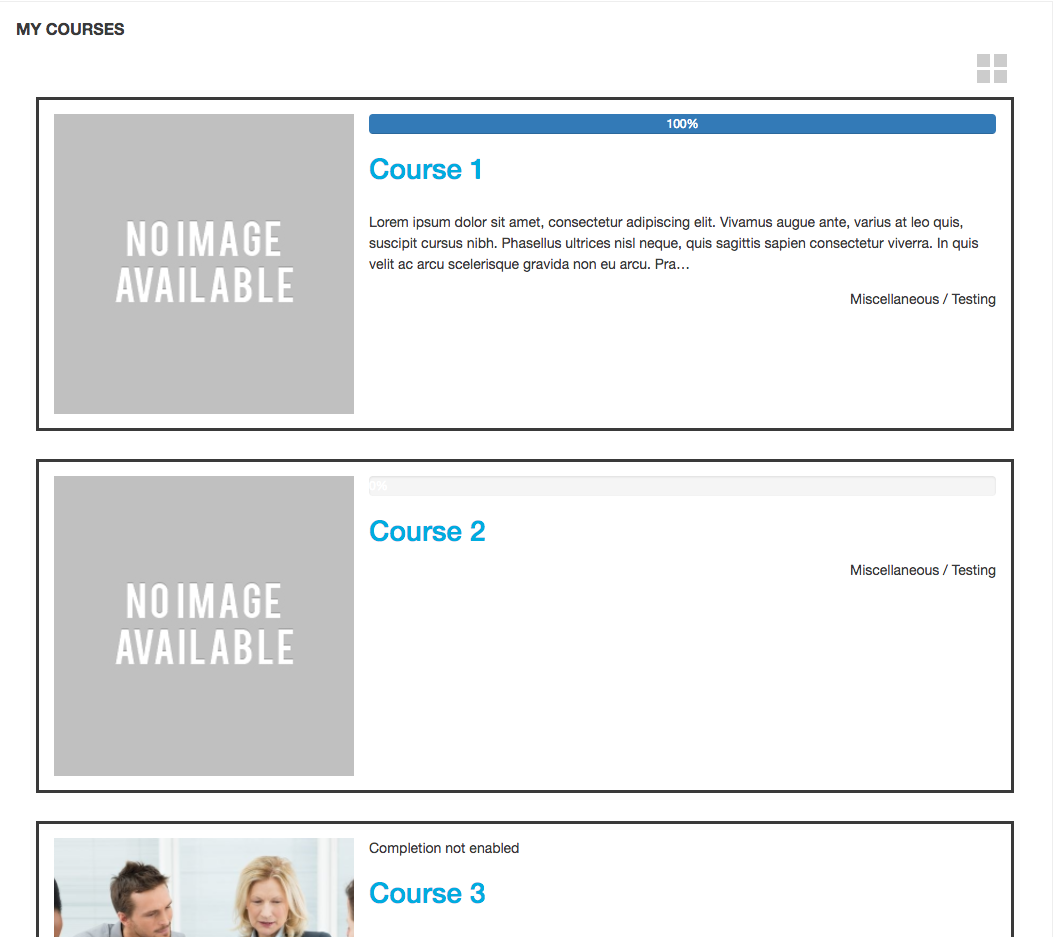
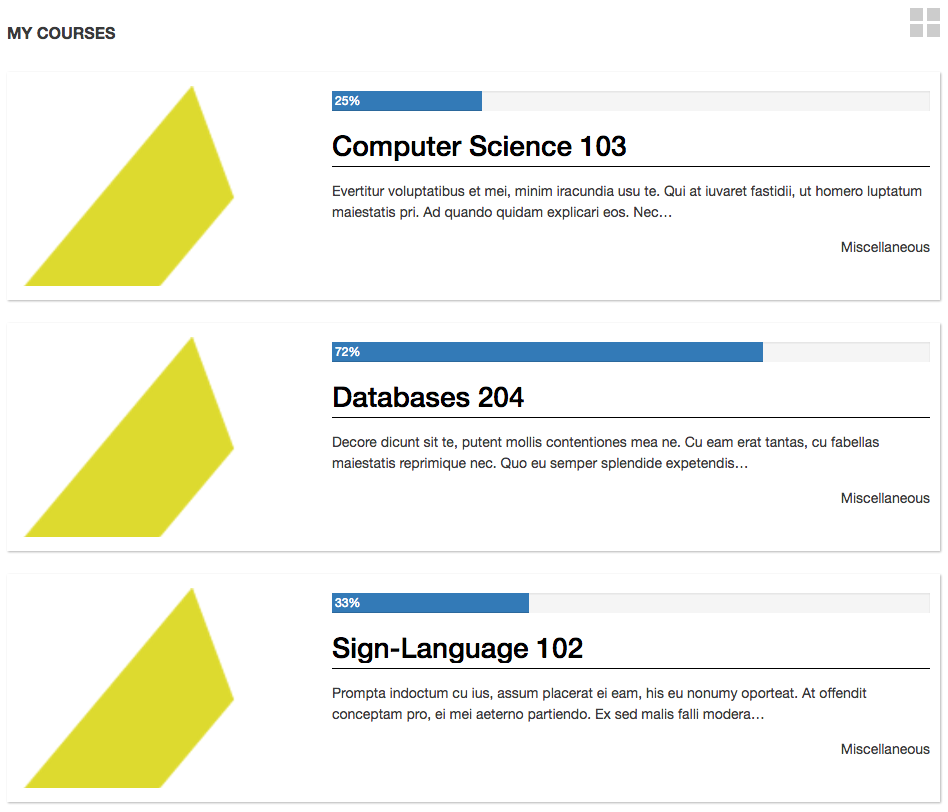
Address Issue #3, #4 - UI/UX Improved (#6)
* Address Issue #4 - UI/UX Improved

* Keeping Code Climate Happy

* Transparent Pic, Styling, Lang & #3 Fix

* Lang Strings Standardised, UI/UI Fix, Version Bump, Updated Pics

* Fix for MDL-58010

diff --git a/styles.css b/styles.css
@@ -17,6 +17,17 @@
     border: solid;
     padding: 15px;
 }
+/*Progress text to be rendered on top of background image*/
+.block_my_courses .my_courses_list .coursebox > p {
+    position: relative;
+}
+.block_my_courses .my_courses_list .coursebox.p-y-1 > p {
+    margin-top: -1rem;
+}
+/*Only if JS is enabled.*/
+.jsenabled .block_my_courses .my_courses_list .coursebox.list {
+    cursor: pointer;
+}
 .block_my_courses .my_courses_list .coursebox.list {
     margin-left: 0;
 }
@@ -146,6 +157,9 @@
     display: flex;
     flex-direction: column;
     overflow: auto;
+}
+.block_my_courses .coursebox.grid .activity_info {
+    display: none;
 }
 .block_my_courses .coursebox.list {
     display: block;
@@ -479,7 +493,6 @@
     z-index: 999;
     background:#ccc;
     background: rgba(0, 0, 0, 0.2);
-    transition: all 0.5s ease;
 }
 .my_courses_list .coursebox:not(.span12) .progress .progress-bar[aria-valuenow="0"] {
     display: none;

diff --git a/lang/en/block_my_courses.php b/lang/en/block_my_courses.php
@@ -81,22 +81,23 @@ $string['customsettings'] = 'Custom settings';
 $string['customsettings_desc'] = 'The following are settings for additions to the course overview block';
 
 $string['courseimagedefault'] = 'Default course image';
-$string['courseimagedefaultdesc'] = 'This image will be shown if a course lacks a course summary image file.';
+$string['courseimagedefault_desc'] = 'This image will be shown if a course lacks a course summary image file.';
 
 $string['my_courses_bgimage']   = "Embed images into background";
-$string['my_courses_bgimagedesc']   = "This will embed images into background as a CSS property";
+$string['my_courses_bgimage_desc']   = "This will embed images into background as a CSS property";
 
+$string['summary_limit'] = 'Summary character limit';
 $string['summary_limit_desc'] = 'Limit the output of text to display as course summaries on the users home page';
-$string['summary_limit'] = 'Summary String Letter Limit';
 
-$string['progress'] = 'Progress Type';
+$string['progress'] = 'Progress type';
 $string['progress_desc'] = 'This will determine what type of course grades the block will try to render';
 
-$string['progressenabled'] = 'Coure progress bar';
+$string['progressenabled'] = 'Course progress bar';
 $string['progressenabled_desc'] = 'This will determine if the course progress bar will be shown to learners';
 
 $string['startgrid'] = "Start as grid";
 $string['startgrid_desc'] = "This will render the courses in a grid straight away";
 
-$string['noprogress'] = "Progressbar enabled, but completion tracking not enabled for course!";
+$string['noprogress'] = ": enable course completion tracking!";
+$string['progressunavail'] = "Progress unavailable";
 $string['nocompletion'] = "Completion not enabled";

diff --git a/locallib.php b/locallib.php
@@ -97,7 +97,7 @@ function block_my_courses_get_myorder() {
     // If preference was not found, look in the old location and convert if found.
     $order = array();
     if ($value = get_user_preferences('my_courses_course_order')) {
-        $order = unserialize($value);
+        $order = unserialize_array($value);
         block_my_courses_update_myorder($order);
         unset_user_preference('my_courses_course_order');
     }
@@ -317,7 +317,19 @@ function build_progress($course) {
 
             // Don't display if completion isn't enabled!
             if (!$coursecompletiondata->is_enabled()) {
-                return html_writer::tag('p', get_string('noprogress', 'block_my_courses'));
+                // Check if user should get a limited/full description of issue - based on viewhiddencourses capabilities.
+                $context = context_course::instance($course->id, IGNORE_MISSING);
+                // Limited view.
+                if (!has_capability('moodle/course:viewhiddencourses', $context)) {
+                    return html_writer::tag('p',
+                                            get_string('progressunavail', 'block_my_courses'),
+                                            array('class' => 'progressunavail'));
+                } else { // Full view.
+                    return html_writer::tag('p',
+                                            get_string('progressunavail', 'block_my_courses') .
+                                                get_string('noprogress', 'block_my_courses'),
+                                            array('class' => 'progressunavail'));
+                }
             }
 
             // INSPIRED BY completionstatus BLOCK.

diff --git a/settings.php b/settings.php
@@ -70,13 +70,13 @@ if ($ADMIN->fulltree) {
 
     $name = 'block_my_courses/courseimagedefault';
     $title = new lang_string('courseimagedefault', 'block_my_courses');
-    $description = new lang_string('courseimagedefaultdesc', 'block_my_courses');
+    $description = new lang_string('courseimagedefault_desc', 'block_my_courses');
     $setting = new admin_setting_configstoredfile($name, $title, $description, 'courseimagedefault');
     $settings->add($setting);
 
     $name = 'block_my_courses/my_courses_bgimage';
     $title = new lang_string('my_courses_bgimage', 'block_my_courses');
-    $description = new lang_string('my_courses_bgimagedesc', 'block_my_courses');
+    $description = new lang_string('my_courses_bgimage_desc', 'block_my_courses');
     $setting = new admin_setting_configcheckbox($name, $title, $description, BLOCKS_MY_COURSES_IMAGEASBACKGROUND_FALSE);
     $settings->add($setting);
 

diff --git a/version.php b/version.php
@@ -25,6 +25,6 @@
 
 defined('MOODLE_INTERNAL') || die();
 
-$plugin->version   = 2017032900;        // The current plugin version (Date: YYYYMMDDXX).
+$plugin->version   = 2017033100;        // The current plugin version (Date: YYYYMMDDXX).
 $plugin->requires  = 2016051900;        // Requires this Moodle version.
 $plugin->component = 'block_my_courses'; // Full name of the plugin (used for diagnostics).
